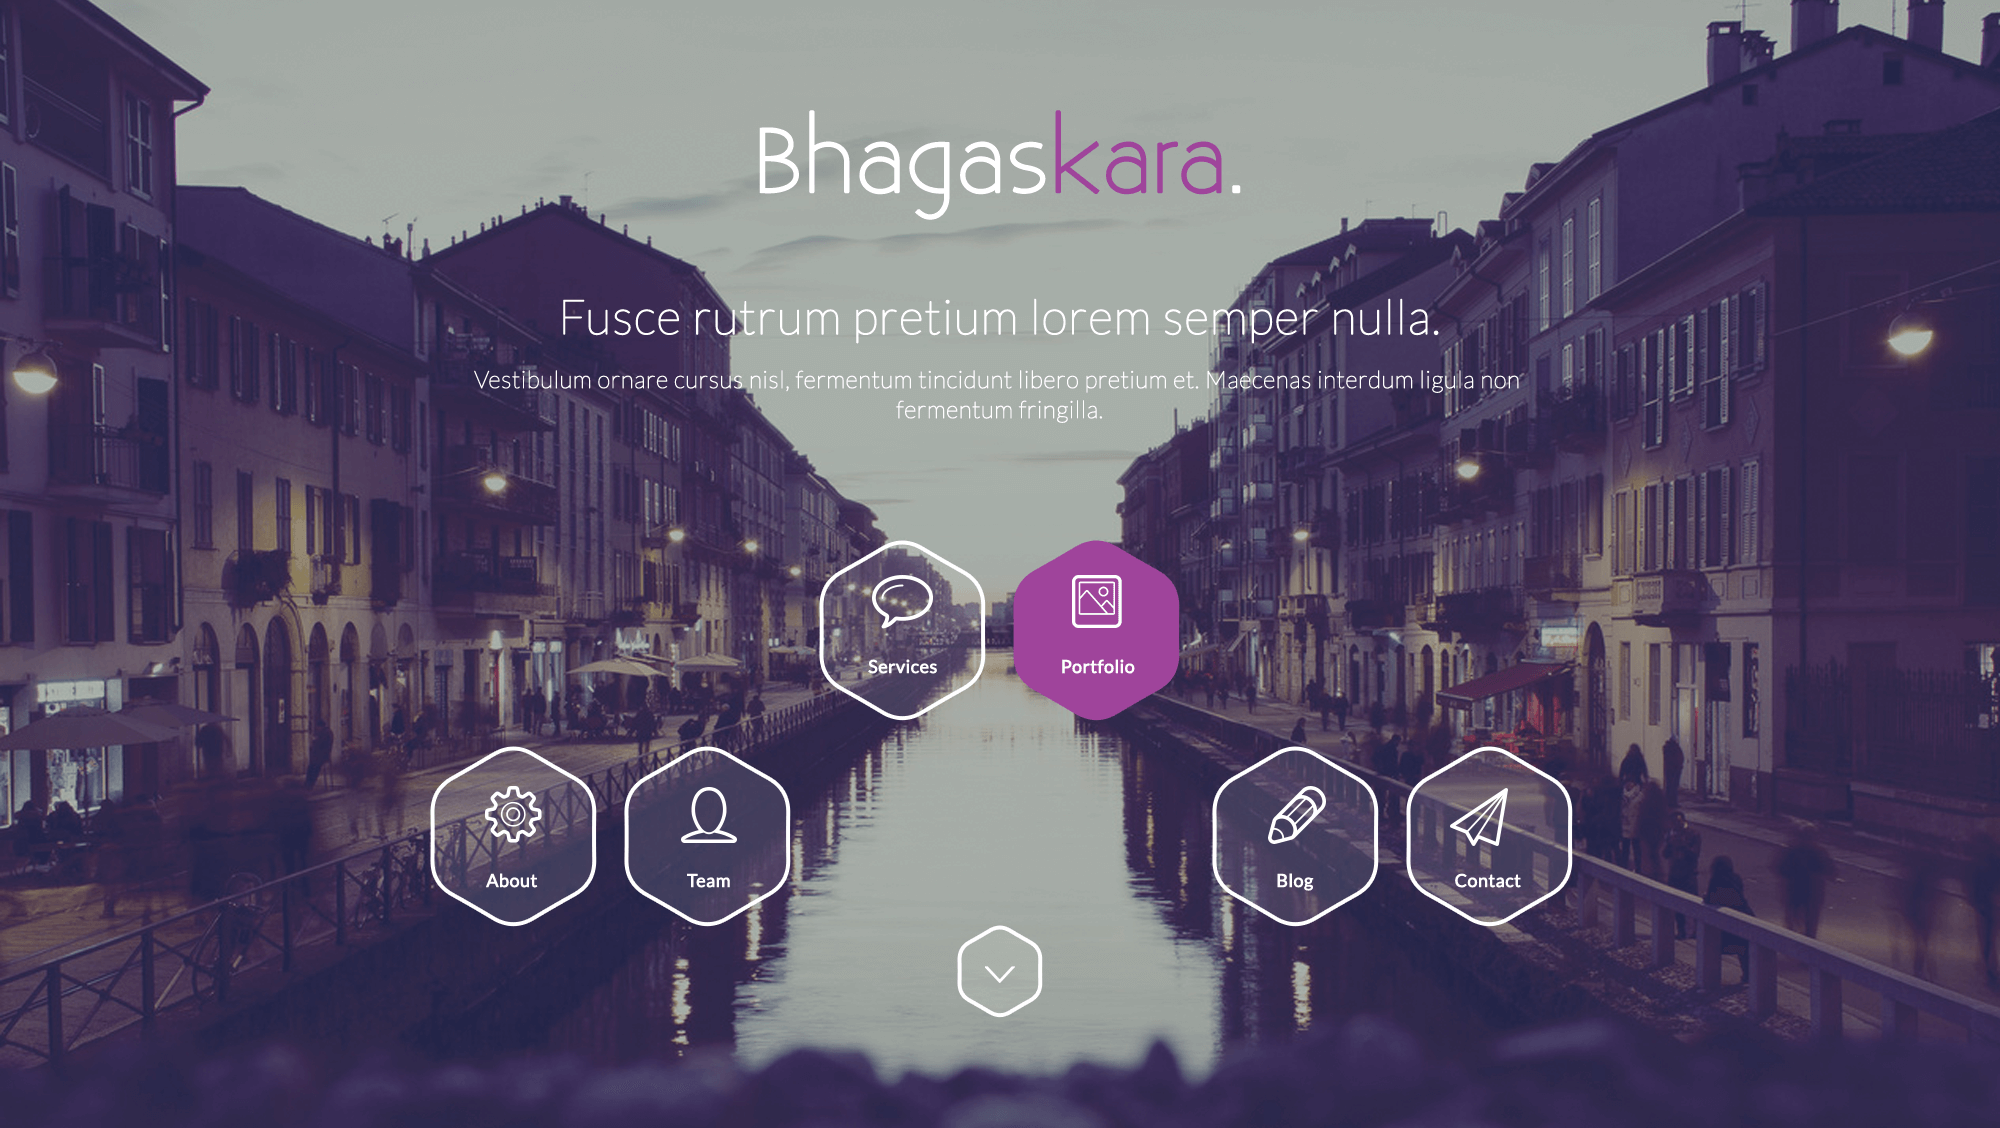
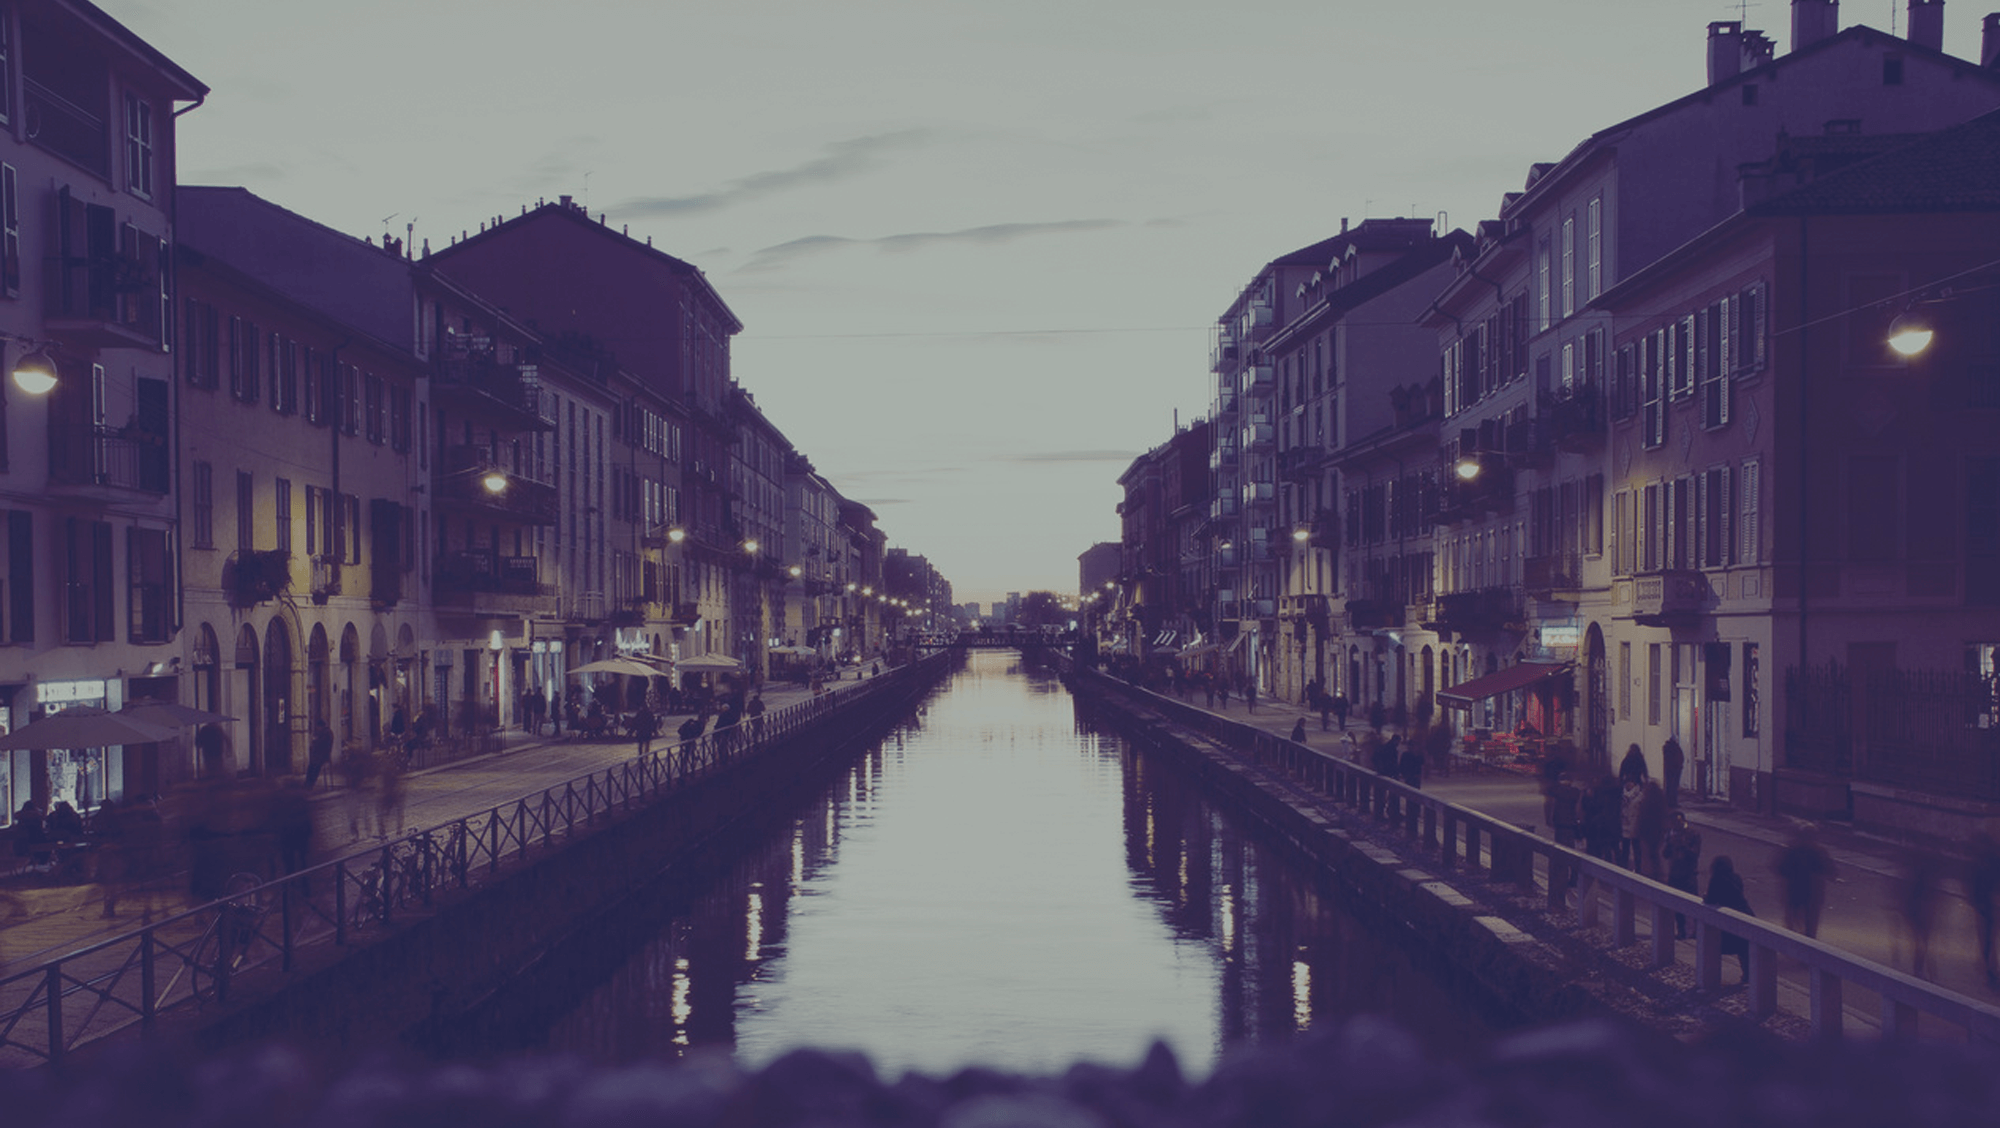
add styles for top slider content

diff --git a/css/style.css b/css/style.css
@@ -6945,6 +6945,37 @@ button.close {
   width: 100%;
   height: 100%;
 }
+.item-content {
+  color: #f5f5f5;
+  text-align: center;
+}
+.item-content h1 {
+  margin-bottom: 20px;
+  line-height: 1;
+  font-family: 'Source Sans Pro', sans-serif;
+  font-weight: 700;
+  font-size: 24px;
+}
+@media only screen and (min-width: 768px) {
+  .item-content h1 {
+    font-size: 56px;
+  }
+}
+@media only screen and (min-width: 992px) {
+  .item-content h1 {
+    font-size: 75px;
+  }
+}
+.item-content h3 {
+  margin-bottom: 30px;
+  line-height: 1.1;
+  font-size: 20px;
+}
+@media only screen and (min-width: 768px) {
+  .item-content h3 {
+    font-size: 32px;
+  }
+}
 #main-content {
   z-index: 1;
   position: relative;

diff --git a/source/slider.less b/source/slider.less
@@ -39,3 +39,31 @@
     .dark-overlay;
   }
 }
+
+// Slider content
+.item-content {
+  color: @light-gray;
+  .center-text;
+  h1 {
+    margin-bottom: 20px;
+    line-height: 1;
+    font-family: @font-family-secondary;
+    font-weight: 700;
+    font-size: 24px;
+    @media @small {
+      font-size: 56px;
+    }
+    @media @medium {
+      font-size: 75px;
+    }
+  }
+  h3 {
+    margin-bottom: 30px;
+    line-height: 1.1;
+    font-size: 20px;
+    @media @small {
+      font-size: 32px;
+    }
+
+  }
+}

diff --git a/source/variables.less b/source/variables.less
@@ -12,6 +12,7 @@
 @bright-text-color: #fff;
 @menu-text-color: #929292;
 @menu-text-hover-color: #383838;
+@light-gray: #f5f5f5;
 @footer-text-color: #999;
 
 @border-color: #ddd;
